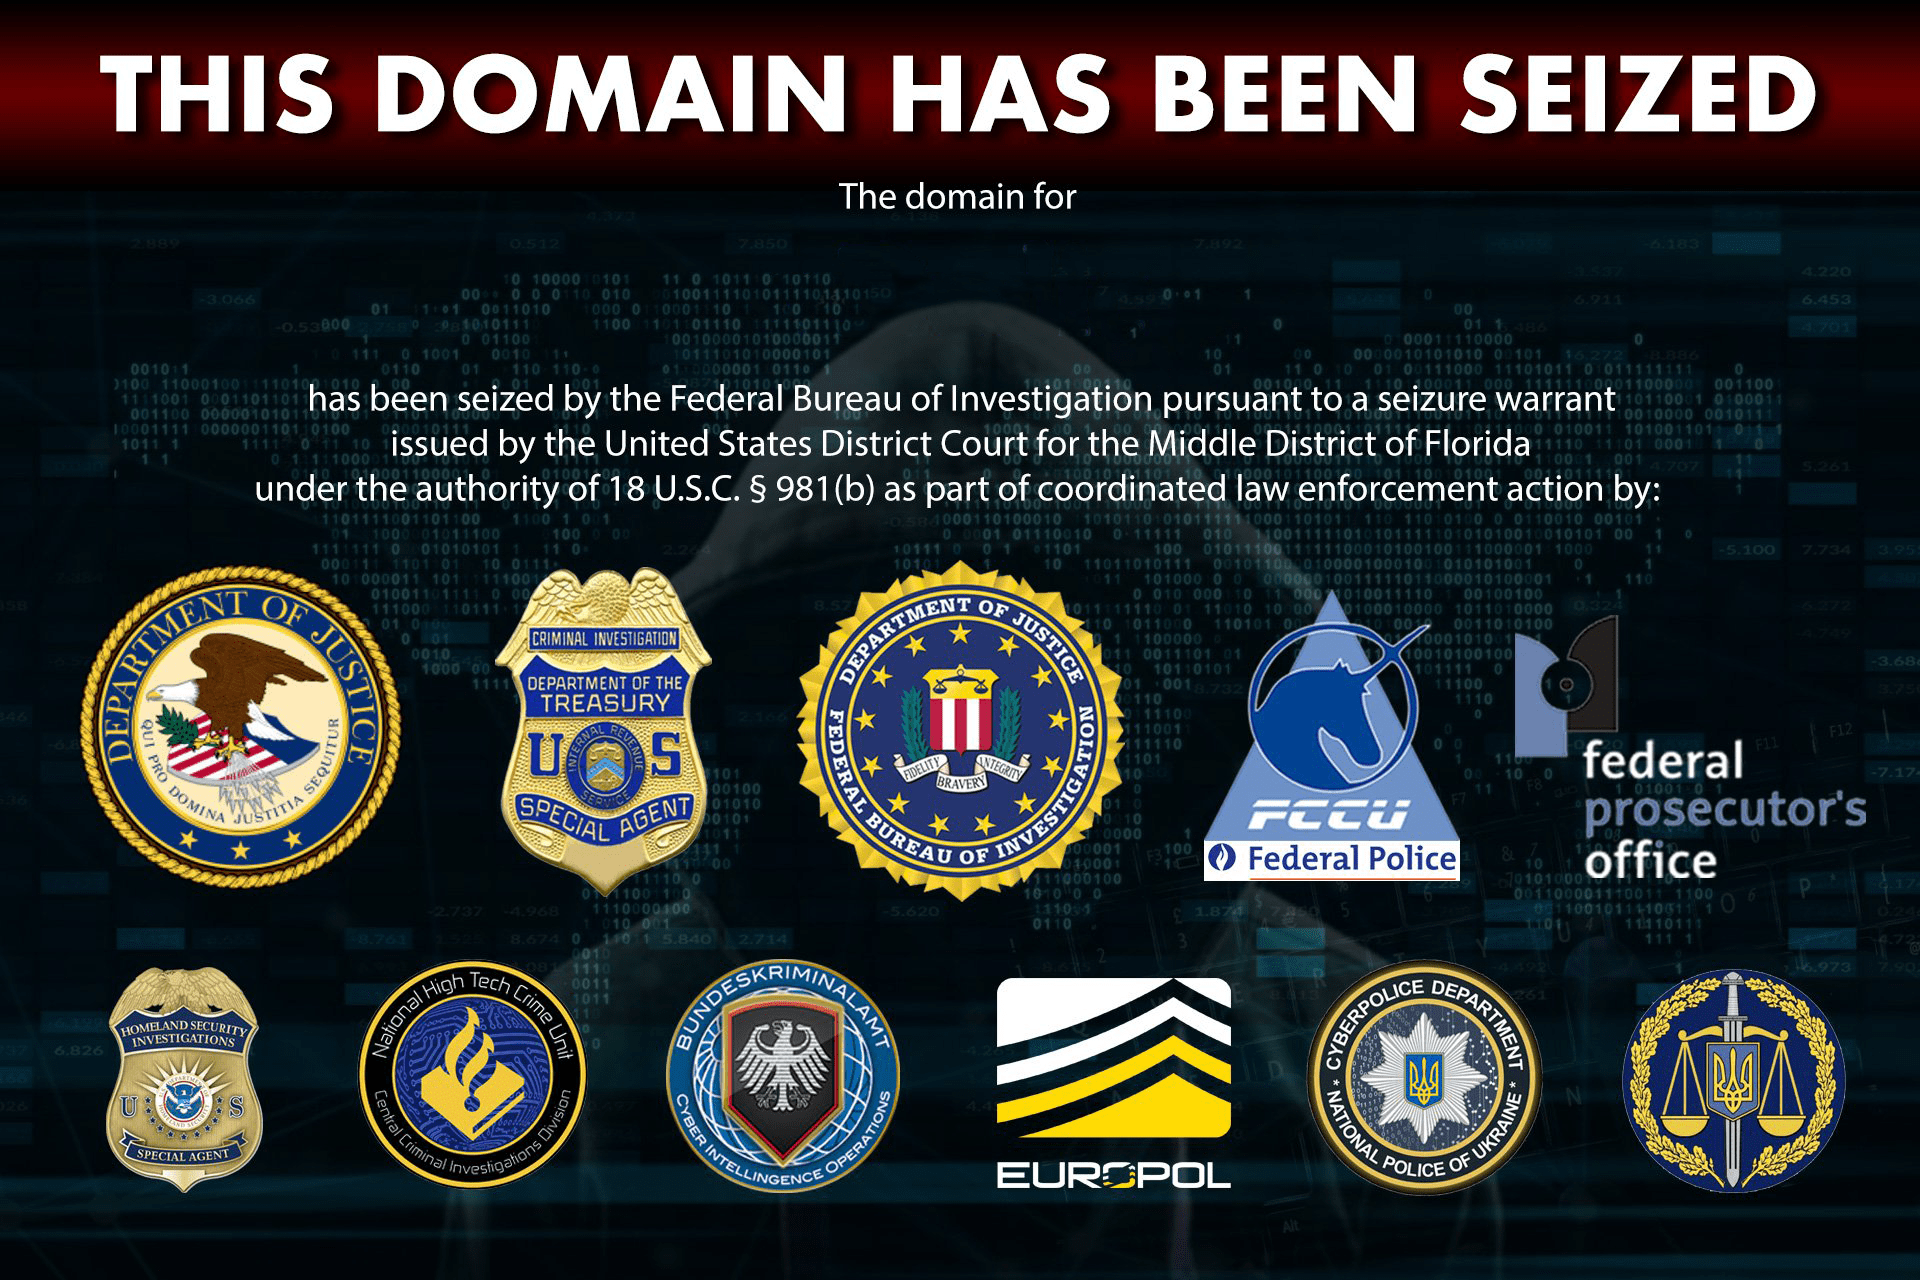
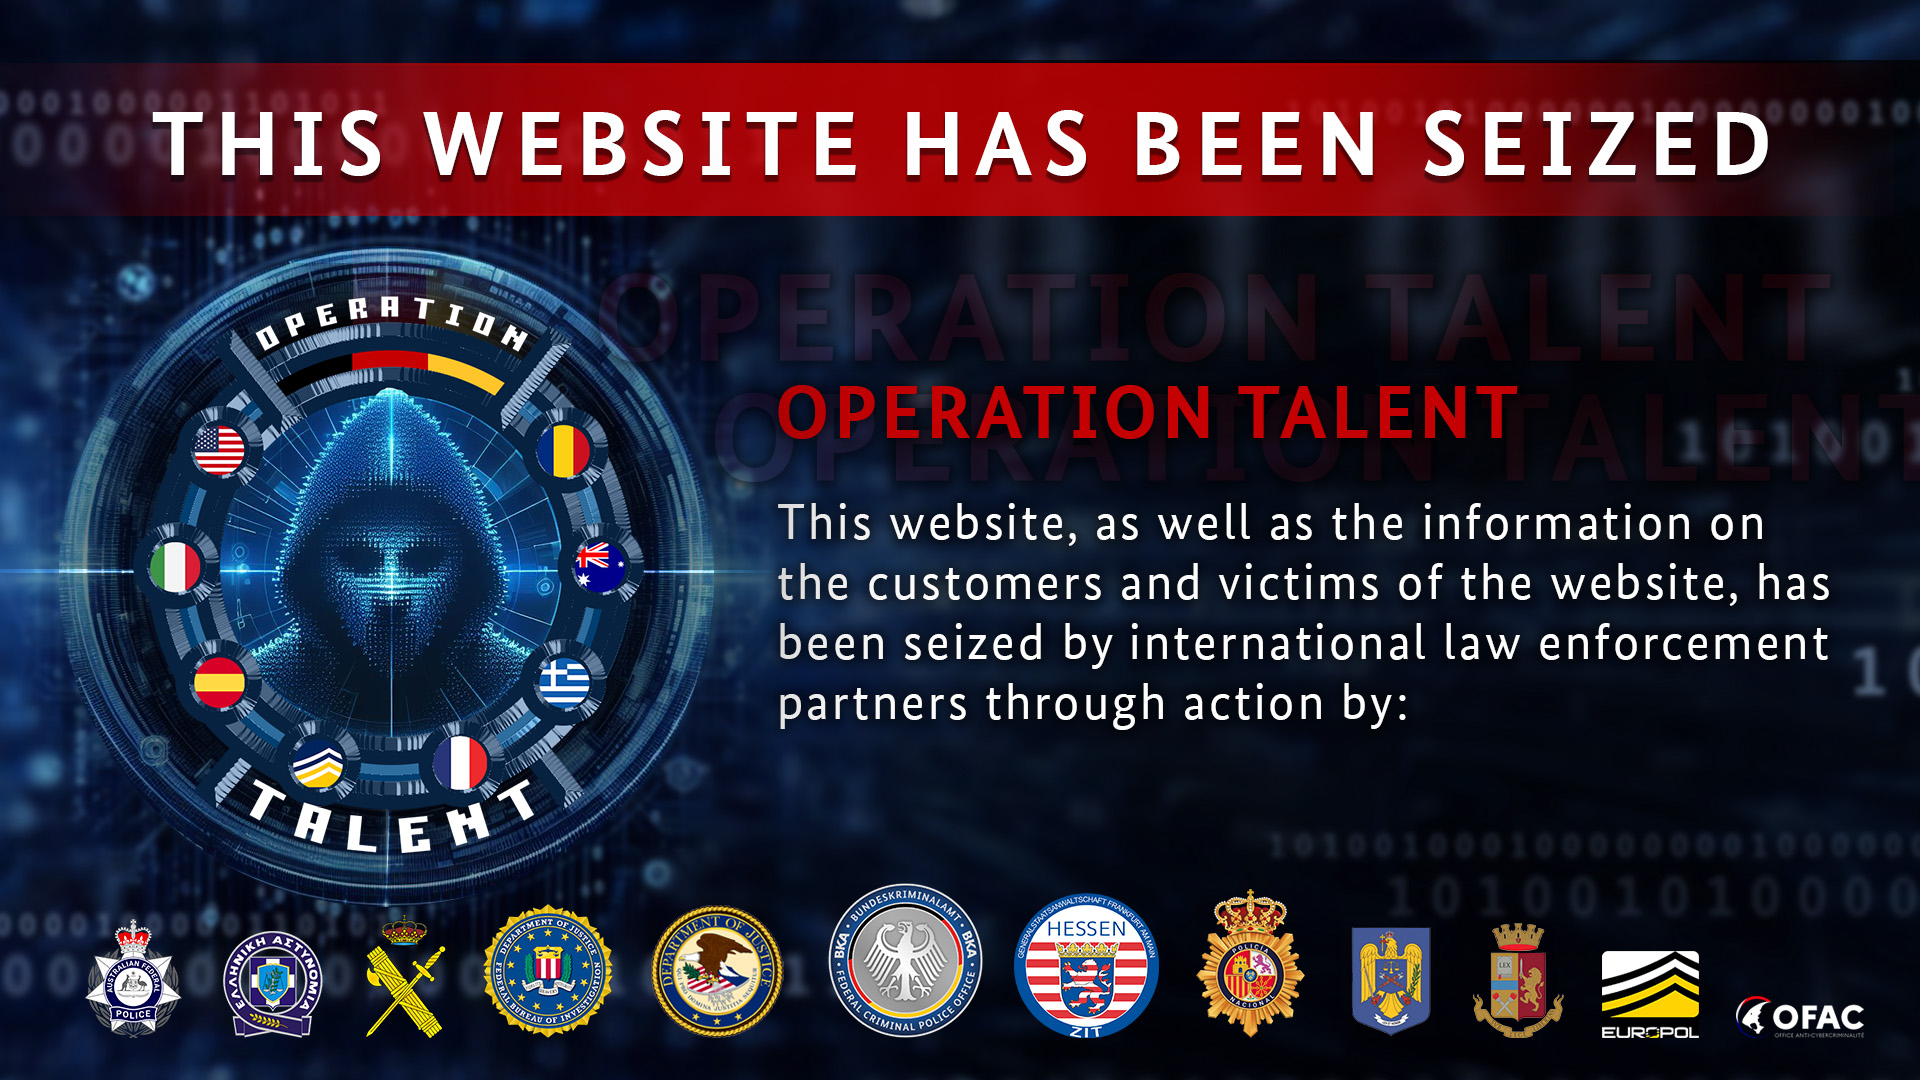
update

diff --git a/index.html b/index.html
@@ -2,7 +2,7 @@
 <html>
 
 <head>
-  <title>Domain Seizure</title>
+  <title>This Website Has Been Seized</title>
   <style>
   html,
   body {
@@ -12,8 +12,8 @@
   .seized {
     margin: auto;
     padding-top: 9%;
-    width: 80vw;
-    max-width: 1920px;
+    width: 90vw;
+
     height: 100vh;
     background-repeat: no-repeat;
     background-image: url("seized.png");
